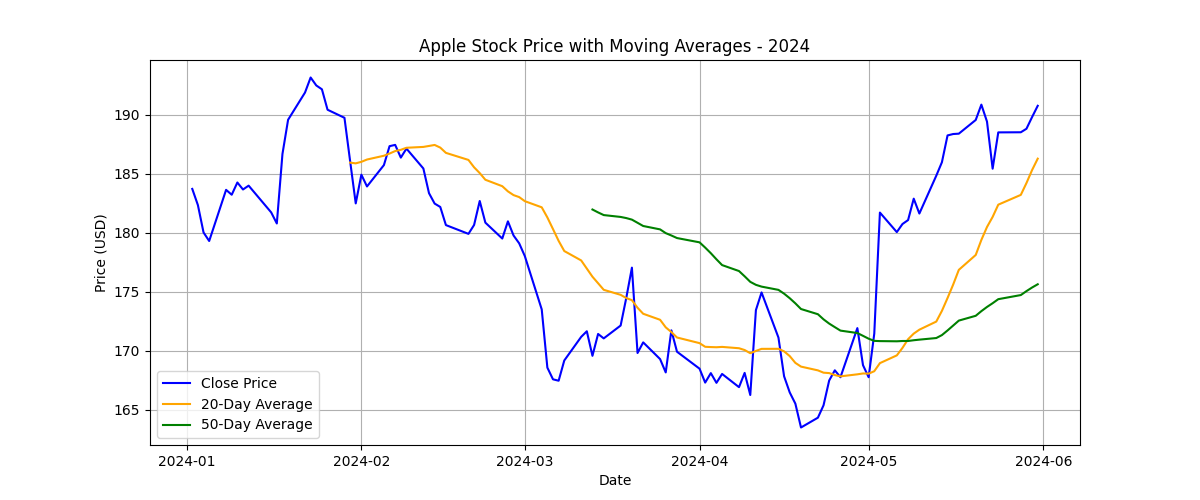
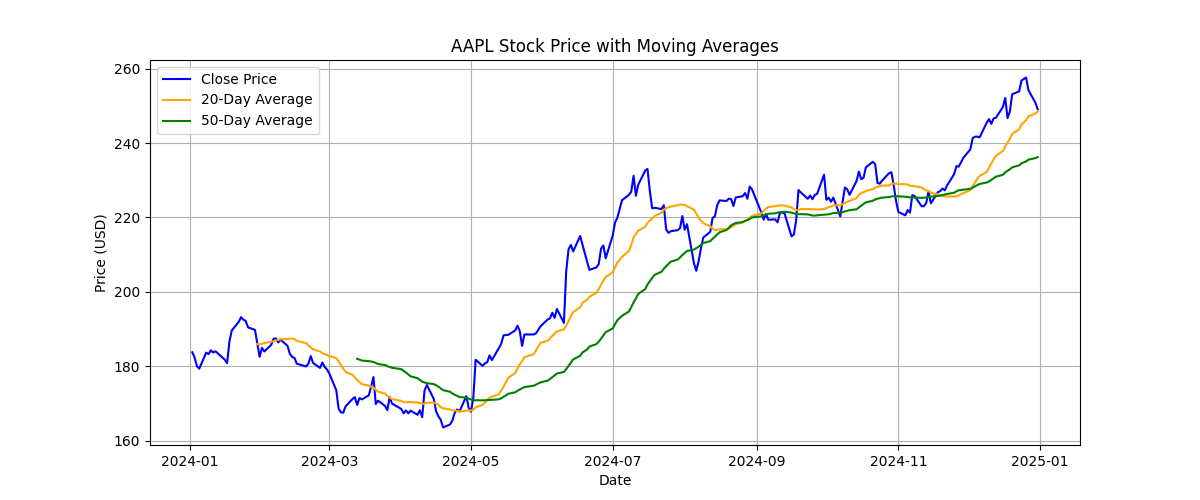
added variables

diff --git a/test.py b/test.py
@@ -1,14 +1,16 @@
 import yfinance as yf
 import matplotlib.pyplot as plt
 
-# Download Apple stock data
-data = yf.download("AAPL", start="2024-01-01", end="2024-06-01")
+# Settings - change these to whatever you want!
+ticker = "AAPL"
+start_date = "2024-01-01"
+end_date = "2025-01-01"
+
+# Download stock data
+data = yf.download(ticker, start=start_date, end=end_date)
 
 # Calculate moving averages
-# For each day, take the average of the last 20 days
 data['MA20'] = data['Close'].rolling(20).mean()
-
-# For each day, take the average of the last 50 days
 data['MA50'] = data['Close'].rolling(50).mean()
 
 # Plot everything
@@ -17,10 +19,10 @@ plt.plot(data['Close'], color='blue', linewidth=1.5, label='Close Price')
 plt.plot(data['MA20'], color='orange', linewidth=1.5, label='20-Day Average')
 plt.plot(data['MA50'], color='green', linewidth=1.5, label='50-Day Average')
 
-plt.title("Apple Stock Price with Moving Averages - 2024")
+plt.title(f"{ticker} Stock Price with Moving Averages")
 plt.xlabel("Date")
 plt.ylabel("Price (USD)")
-plt.legend()  # this shows the colour key
+plt.legend()
 plt.grid(True)
 plt.savefig("apple_chart.png")
 print("Chart saved!")
